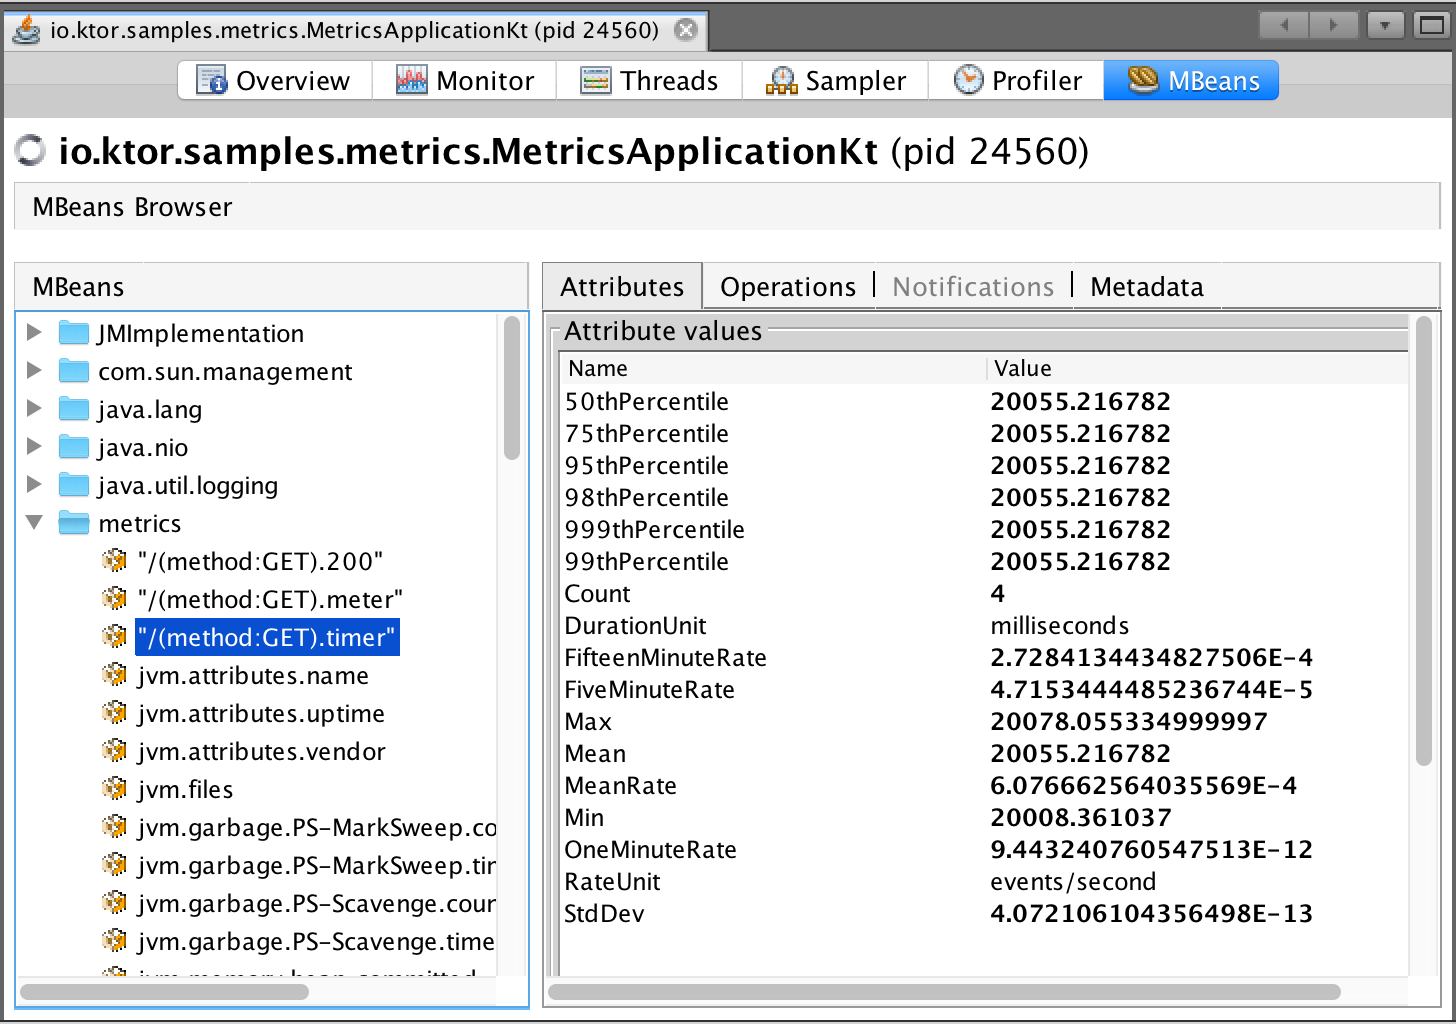
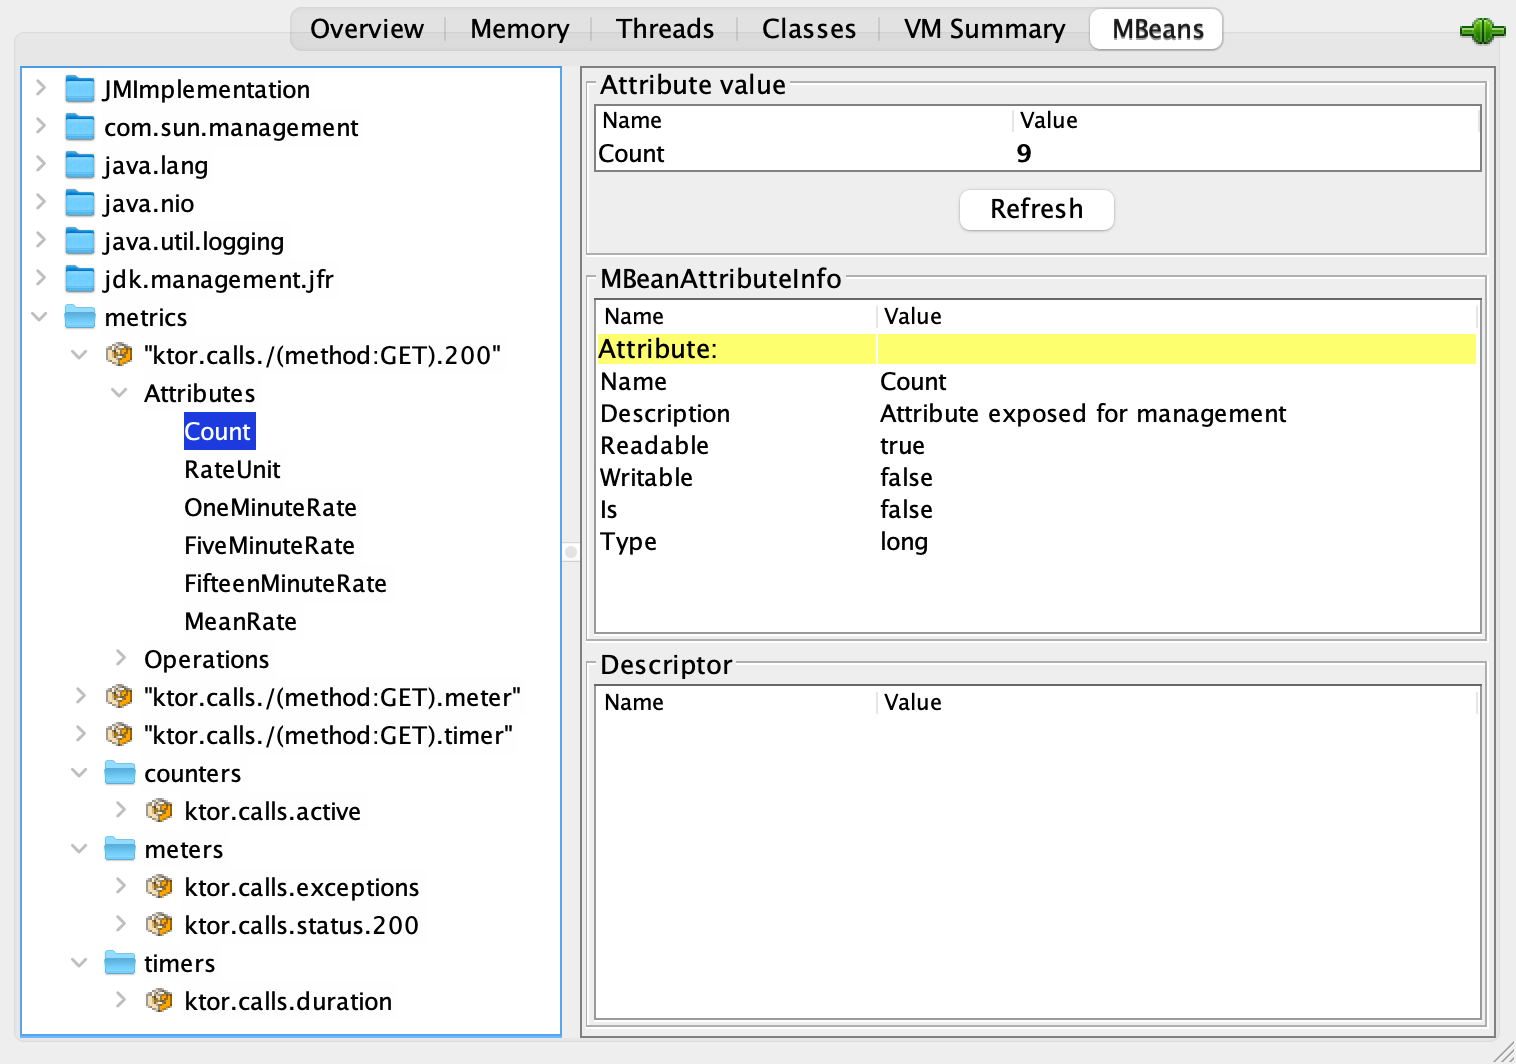
KTOR-1877 update topic

Changed region(s): [[0.0, 0.0, 1.0, 1.0]]

diff --git a/topics/dropwizard_metrics.md b/topics/dropwizard_metrics.md
@@ -1,6 +1,6 @@
 [//]: # (title: Dropwizard metrics)
 
-<var name="plugin_name" value="Metrics"/>
+<var name="plugin_name" value="DropwizardMetrics"/>
 <var name="artifact_name" value="ktor-server-metrics"/>
 
 <microformat>
@@ -11,110 +11,107 @@ Required dependencies: <code>io.ktor:%artifact_name%</code>
 <include src="lib.xml" include-id="download_example"/>
 </microformat>
 
-<include src="lib.xml" include-id="outdated_warning"/>
+<excerpt>The %plugin_name% plugin lets you configure the Metrics library to get useful information about the server and incoming requests.</excerpt>
 
-The `%plugin_name%` plugin allows you to configure the [Metrics](http://metrics.dropwizard.io/4.2.0/)
-to get useful information about the server and incoming requests.
+The `%plugin_name%` plugin lets you configure the [Metrics](http://metrics.dropwizard.io/) library to get useful information about the server and incoming requests.
 
 ## Add dependencies {id="add_dependencies"}
+To enable `%plugin_name%`, you need to include the following artifacts in the build script:
+* Add the `%artifact_name%` dependency:
+  <include src="lib.xml" include-id="add_ktor_artifact"/>
 
-<include src="lib.xml" include-id="add_ktor_artifact_intro"/>
-<include src="lib.xml" include-id="add_ktor_artifact"/>
+* Optionally, add a dependency required for a specific reporter. The example below shows how to add an artifact required to report metrics via JMX:
+  <var name="group_id" value="io.dropwizard.metrics"/>
+  <var name="artifact_name" value="metrics-jmx"/>
+  <var name="version" value="dropwizard_version"/>
+  <include src="lib.xml" include-id="add_artifact"/>
+  You can replace `dropwizard_version` with the required version of the `metrics-jmx` artifact, for example, `%dropwizard_version%`.
 
-## Install Metrics
+## Install %plugin_name% {id="install_plugin"}
 
-The `%plugin_name%` plugin exposes a `registry` property, that can be used to build and start
-metric reporters.
+<include src="lib.xml" include-id="install_plugin"/>
 
-### JMX Reporter
+## Configure %plugin_name% {id="configure_plugin"}
 
-The JMX Reporter allows you to expose all the metrics to JMX,
-allowing you to view those metrics with `jconsole` or `jvisualvm` with the MBeans plugin.
+`%plugin_name%` allows you to use any supported [Metric reporter](http://metrics.dropwizard.io/) using the `registry` property. Let's take a look at how to configure the SLF4J and JMX reporters.
 
-```kotlin
-install(DropwizardMetrics) {
-    JmxReporter.forRegistry(registry)
-        .convertRatesTo(TimeUnit.SECONDS)
-        .convertDurationsTo(TimeUnit.MILLISECONDS)
-        .build()
-        .start()
-}
-```
+### SLF4J reporter {id="slf4j"}
 
-![Ktor Metrics: JMX](jmx.png)
-
-### SLF4J Reporter
-
-The SLF4J Reporter allows you to periodically emit reports to any output supported by SLF4J.
+The SLF4J reporter allows you to periodically emit reports to any output supported by SLF4J.
 For example, to output the metrics every 10 seconds, you would:
 
 ```kotlin
+```
+{src="snippets/dropwizard-metrics/src/main/kotlin/com/example/MetricsApplication.kt" lines="12-18,25"}
+
+You can find the full example here: [dropwizard-metrics](https://github.com/ktorio/ktor-documentation/tree/main/codeSnippets/snippets/dropwizard-metrics).
+
+If you run the application and open [http://0.0.0.0:8080](http://0.0.0.0:8080), the output will look like this:
+
+```Bash
+[DefaultDispatcher-worker-1] INFO  Application - Responding at http://0.0.0.0:8080
+... type=COUNTER, name=ktor.calls.active, count=0
+... type=METER, name=ktor.calls./(method:GET).200, count=6, m1_rate=1.2, m5_rate=1.2, m15_rate=1.2, mean_rate=0.98655785084844, rate_unit=events/second
+... type=METER, name=ktor.calls./(method:GET).meter, count=6, m1_rate=1.2, m5_rate=1.2, m15_rate=1.2, mean_rate=0.9841134429134598, rate_unit=events/second
+... type=METER, name=ktor.calls.exceptions, count=0, m1_rate=0.0, m5_rate=0.0, m15_rate=0.0, mean_rate=0.0, rate_unit=events/second
+... type=METER, name=ktor.calls.status.200, count=6, m1_rate=1.2, m5_rate=1.2, m15_rate=1.2, mean_rate=0.9866015088545449, rate_unit=events/second
+... type=TIMER, name=ktor.calls./(method:GET).timer, count=6, min=0.359683, max=14.213046, mean=2.691307542732234, stddev=5.099546889849414, p50=0.400967, p75=0.618972, p95=14.213046, p98=14.213046, p99=14.213046, p999=14.213046, m1_rate=1.2, m5_rate=1.2, m15_rate=1.2, mean_rate=0.9830677128229028, rate_unit=events/second, duration_unit=milliseconds
+... type=TIMER, name=ktor.calls.duration, count=6, min=0.732149, max=33.735719, mean=6.238046092985701, stddev=12.169258340009847, p50=0.778864, p75=1.050454, p95=33.735719, p98=33.735719, p99=33.735719, p999=33.735719, m1_rate=0.2, m5_rate=0.2, m15_rate=0.2, mean_rate=0.6040311229887146, rate_unit=events/second, duration_unit=milliseconds
+```
+
+### JMX reporter {id="jmx"}
+
+The JMX reporter allows you to expose all the metrics to JMX, allowing you to view those metrics using `jconsole`.
+
+```kotlin
+```
+{src="snippets/dropwizard-metrics/src/main/kotlin/com/example/MetricsApplication.kt" lines="12,19-23,25"}
+
+You can find the full example here: [dropwizard-metrics](https://github.com/ktorio/ktor-documentation/tree/main/codeSnippets/snippets/dropwizard-metrics).
+
+If you run the application and connect to its process using the [JConsole](https://docs.oracle.com/en/java/javase/17/management/using-jconsole.html), metrics will look like this:
+
+![Ktor Metrics: JMX](jmx.png){width="758"}
+
+
+
+## Exposed metrics {id="exposed-metrics"}
+
+`%plugin_name%` exposes the following metrics:
+
+- [Global metrics](#global-metrics) that include Ktor-specific and [JVM metrics](#jvm-metrics).
+- [Metrics for endpoints](#endpoint-metrics).
+
+### Global metrics {id="global-metrics"}
+
+Global metrics include the following Ktor-specific metrics:
+
+* `ktor.calls.active`:`Count` - The number of unfinished active requests.
+* `ktor.calls.duration` - Information about the duration of the calls.
+* `ktor.calls.exceptions` - Information about the number of exceptions.
+* `ktor.calls.status.NNN` - Information about the number of times that happened a specific HTTP status code `NNN`.
+
+Note that a metric name starts with the `ktor.calls` prefix. You can customize it using the `baseName` property:
+
+```kotlin
 install(DropwizardMetrics) {
-    Slf4jReporter.forRegistry(registry)
-        .outputTo(log)
-        .convertRatesTo(TimeUnit.SECONDS)
-        .convertDurationsTo(TimeUnit.MILLISECONDS)
-        .build()
-        .start(10, TimeUnit.SECONDS)
+    baseName = "my.prefix"
 }
 ```
 
-![Ktor Metrics: SLF4J](slf4j.png)
+### Metrics per endpoint {id="endpoint-metrics"}
 
-### Other reporters
+* `"/uri(method:VERB).NNN"` - Information about the number of times that happened a specific HTTP status code `NNN`, for this path and verb.
+* `"/uri(method:VERB).meter"` - Information about the number of calls for this path and verb.
+* `"/uri(method:VERB).timer"` - Information about the duration for this endpoint.
 
-You can use any of the available [Metric reporters](http://metrics.dropwizard.io/4.2.0/).
 
-## Exposed reports
+### JVM metrics {id="jvm-metrics"}
 
-This plugin exposes many JVM properties relating to memory usage and thread behavior.
+In addition to HTTP metrics, Ktor exposes a set of metrics for monitoring the JVM. You can disable these metrics using the `registerJvmMetricSets` property:
 
-### Global:
+```kotlin
+```
+{src="snippets/dropwizard-metrics/src/main/kotlin/com/example/MetricsApplication.kt" lines="12,24-25"}
 
-Specifically to Ktor, it exposes:
-
-* `ktor.calls.active`:`Count` - The number of unfinished active requests
-* `ktor.calls.duration` - Information about the duration of the calls
-* `ktor.calls.exceptions` - Information about the number of exceptions
-* `ktor.calls.status.NNN` - Information about the number of times that happened a specific HTTP Status Code NNN
-
-### Per endpoint:
-
-* `"/uri(method:VERB).NNN"` - Information about the number of times that happened a specific HTTP Status Code NNN, for this path, for this verb
-* `"/uri(method:VERB).meter"` - Information about the number of calls for this path, for this verb
-* `"/uri(method:VERB).timer"` - Information about the durations for this endpoint
-
-## Information per report
-
-### Durations
-
-`"/uri(method:VERB).timer"` and `ktor.calls.duration` are durations and expose:
-
-* 50thPercentile
-* 75thPercentile
-* 95thPercentile
-* 98thPercentile
-* 99thPercentile
-* 999thPercentile
-* Count
-* DurationUnit
-* OneMinuteRate
-* FifteenMinuteRate
-* FiveMinuteRate
-* Max
-* Mean
-* MeanRate
-* Min
-* RateUnit
-* StdDev
-
-### Counts
-
-The other properties are exposed as counts:
-
-* Count
-* FifteenMinuteRate
-* FiveMinuteRate
-* OneMinuteRate
-* MeanRate
-* RateUnit
+You can find the full example here: [dropwizard-metrics](https://github.com/ktorio/ktor-documentation/tree/main/codeSnippets/snippets/dropwizard-metrics).
